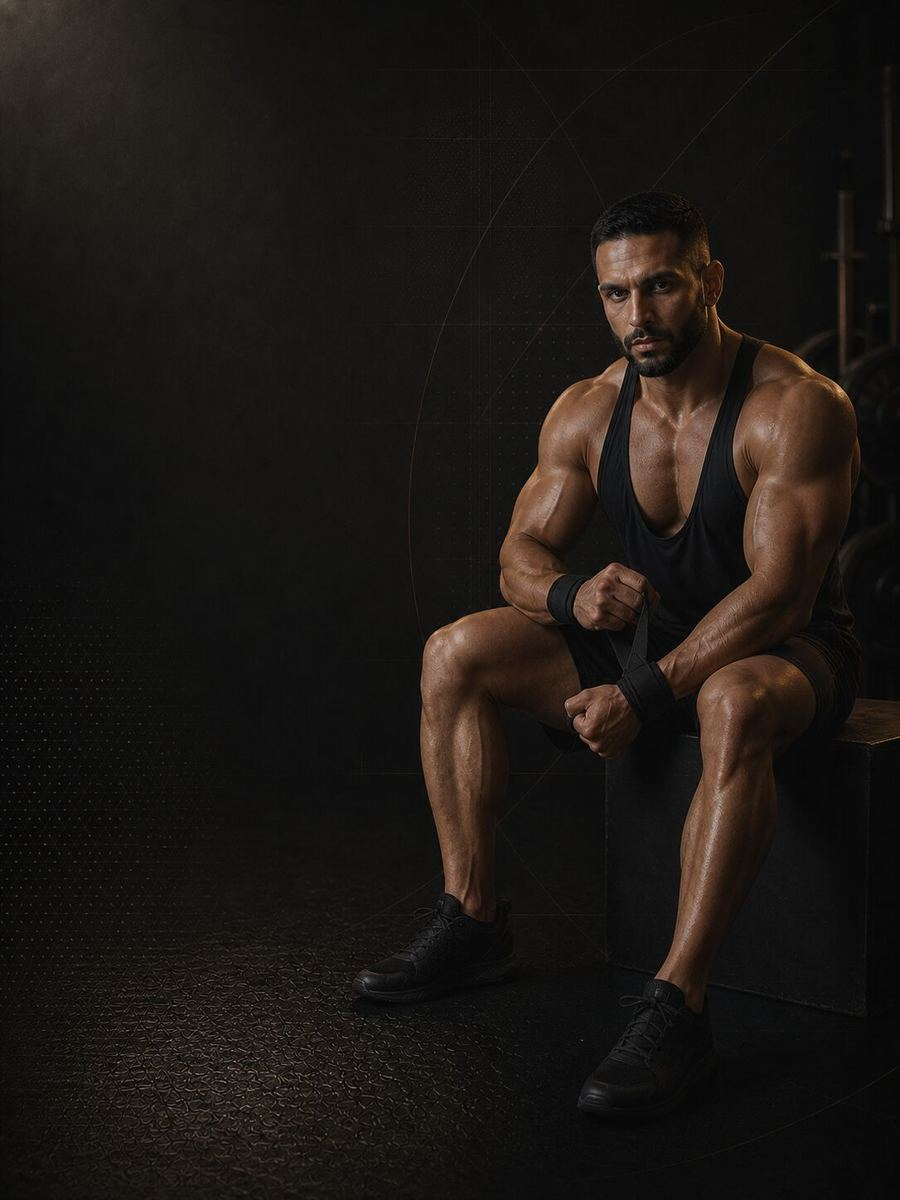
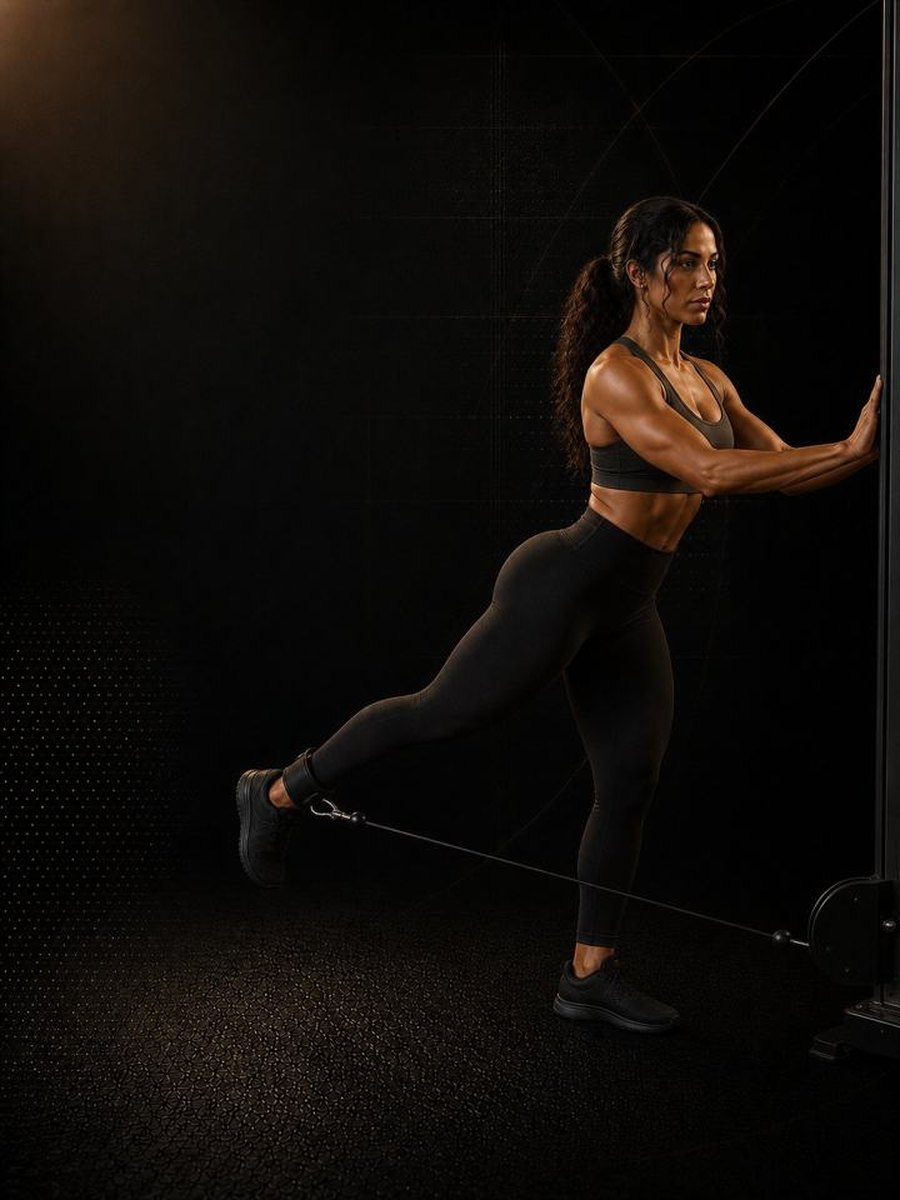
Phone layout pass, scroll-linked section handover, female image on the Physique series card
Claude-Session: https://claude.ai/code/session_016Dr4VWmKR3XLrXBtYEZora

diff --git a/site/style.css b/site/style.css
@@ -431,3 +431,32 @@ button.btn{background:transparent;cursor:pointer;font-family:inherit}
 .h-women .pchips{margin:18px 0 16px}
 .h-women .link{color:var(--gold-400);text-decoration:none;font-size:14.5px}
 @media (max-width:900px){.h-women{grid-template-columns:1fr}.h-women img{min-height:0;height:300px;object-position:60% 62%}}
+
+/* scroll-linked section handover (motion.js sets opacity and transform per frame) */
+.sx{will-change:opacity,transform;transform-origin:50% 50%}
+
+/* phones: tighter rhythm, one-column finder tiles, swipeable sample pages */
+@media (max-width:600px){
+  .h-hero{padding:48px 16px 40px}
+  .h-hero .sub{font-size:16px}
+  .tiles{grid-template-columns:1fr;gap:10px;margin-top:28px}
+  .tile{display:grid;grid-template-columns:28px 1fr auto;align-items:center;gap:14px;min-height:0;padding:16px}
+  .tile svg{width:26px;height:26px}
+  .tile b{font-size:16.5px}.tile span{font-size:13px;line-height:1.45;display:block;margin-top:2px}
+  .tile .go{font-size:0;letter-spacing:0}.tile .go .arr{font-size:18px;color:var(--gold-500)}
+  [dir=rtl] .tile .go{font-size:0}[dir=rtl] .tile .go .arr{display:inline-block;transform:scaleX(-1)}
+  .h-sec{padding-top:64px}
+  .h-sec h2{font-size:28px;line-height:1.2}
+  .h-sec .row{flex-direction:column;align-items:flex-start;gap:6px}
+  .h-stats{padding:24px 16px}
+  .phones{display:grid;grid-auto-flow:column;grid-template-columns:none;grid-auto-columns:64%;gap:14px;overflow-x:auto;scroll-snap-type:x mandatory;
+    margin:26px -16px 0;padding:6px 16px 10px;scrollbar-width:none}
+  .phones::-webkit-scrollbar{display:none}
+  .phone{scroll-snap-align:center}.phone:nth-child(2) .scr{transform:none}
+  .phone .scr{border-radius:22px;padding:6px}.phone img{border-radius:17px}
+  .feat{grid-template-columns:1fr;gap:8px}
+  .h-women{border-radius:18px}.h-women img{height:260px}
+  .h-women .pchips{flex-direction:column}.h-women .pchip{width:100%}
+  .h-end{margin-top:64px;padding:44px 16px}
+  .h-about{padding-top:64px}
+}

diff --git a/site/motion.js b/site/motion.js
@@ -44,6 +44,31 @@
       });
     }, { passive: true });
   }
+  // Scroll-linked handover between sections (Abdullah, 11 Oct): each block fades in rising from
+  // below as it enters, and fades out moving up as it leaves. Tied directly to scroll position,
+  // so it moves exactly with the finger. Skipped on the finder, where content changes in place.
+  if (!still && !document.getElementById('finder')) {
+    var blocks = [].slice.call(document.querySelectorAll('main > section, main > article, main > .marquee, .pp-body > section'));
+    var busy = false, D = 70;
+    function clamp(v) { return v < 0 ? 0 : v > 1 ? 1 : v; }
+    function frame() {
+      var vh = innerHeight, zone = vh * 0.42;
+      for (var i = 0; i < blocks.length; i++) {
+        var el = blocks[i], r = el.getBoundingClientRect();
+        if (r.bottom < -40 || r.top > vh + 40) { el.style.opacity = 0; continue; }
+        var pin = clamp((vh - r.top) / zone), pout = clamp(r.bottom / zone);
+        var y = (1 - pin) * D - (1 - pout) * D, v = Math.min(pin, pout);
+        el.style.opacity = (0.08 + 0.92 * v).toFixed(3);
+        el.style.transform = v > 0.999 ? '' : 'translate3d(0,' + y.toFixed(1) + 'px,0) scale(' + (0.97 + 0.03 * v).toFixed(4) + ')';
+      }
+      busy = false;
+    }
+    function ask() { if (!busy) { busy = true; requestAnimationFrame(frame); } }
+    blocks.forEach(function (el) { el.classList.add('sx'); });
+    addEventListener('scroll', ask, { passive: true });
+    addEventListener('resize', ask);
+    frame();
+  }
   if (!still) document.querySelectorAll('.tile').forEach(function (t) {
     t.addEventListener('pointermove', function (e) {
       var r = t.getBoundingClientRect();
